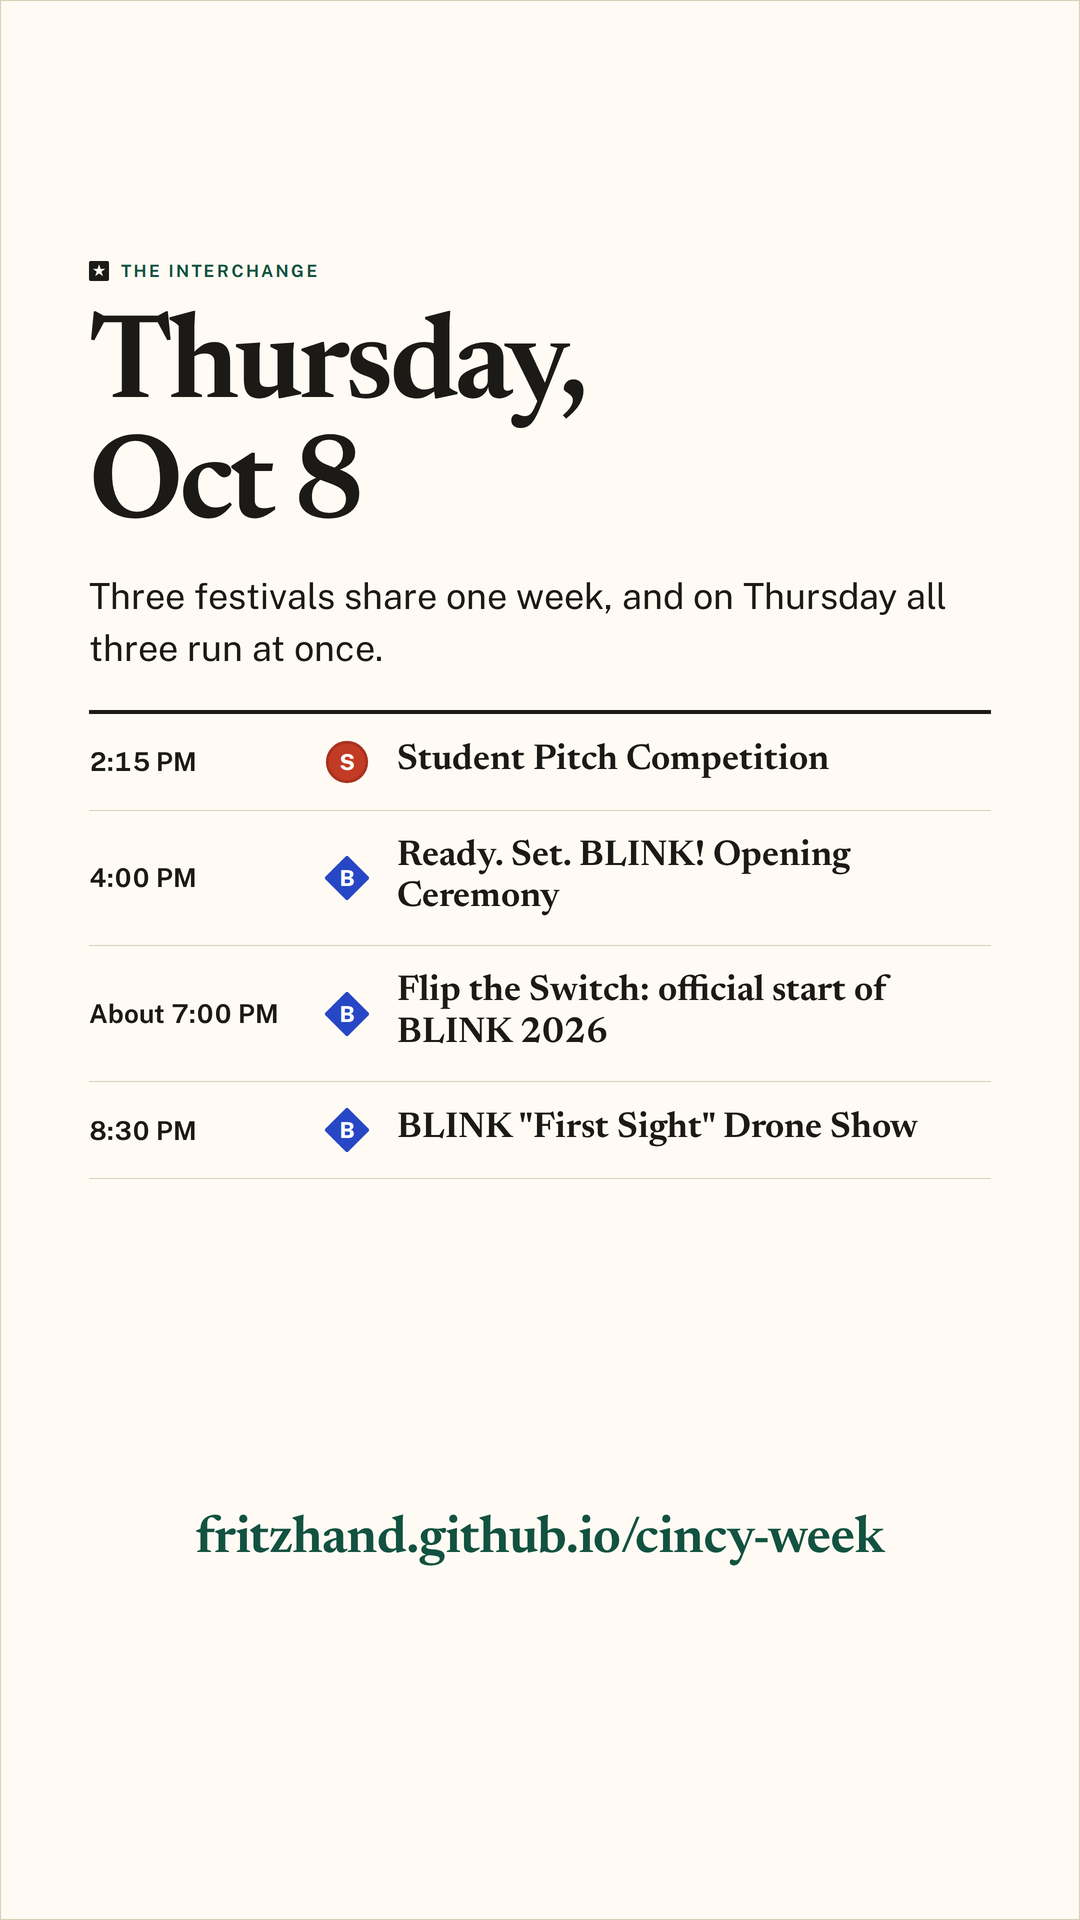
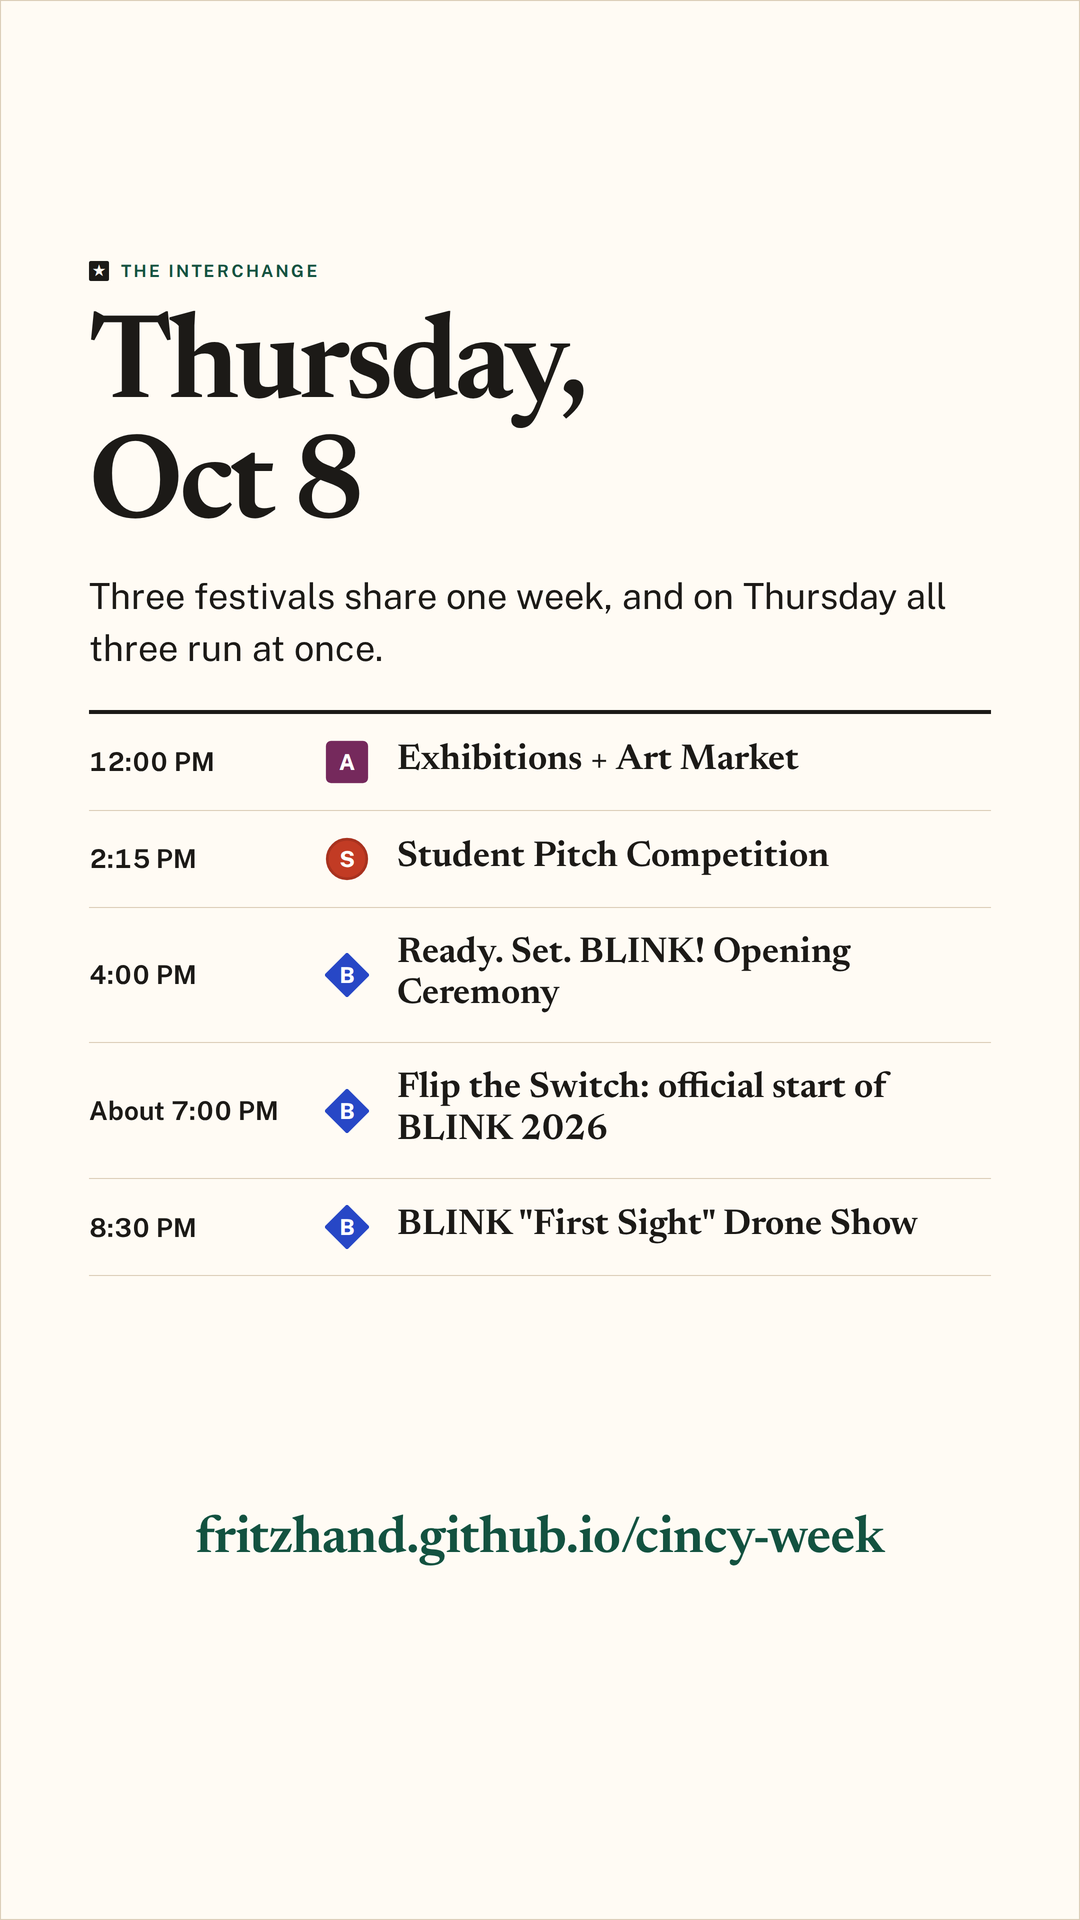
fix(collateral): the Thursday Story shows all three programs
Adds Art Week's Exhibitions + Art Market (12:00 PM) to story-02-thursday, so the
interchange slide shows Art Week, StartupCincy Week and BLINK. Its time comes from
the organizer's own schedule page (unlisted, draft-schedule), which the site
already shows with a draft label; the README says so. The build now fails if any
of the three programs is missing from that Story.

Claude-Session: https://claude.ai/code/session_01EECwuVdECvuQAqUDF2eHB6

diff --git a/collateral/README.md b/collateral/README.md
@@ -33,7 +33,8 @@ A card that fails any check is written as `<id>.failed.png` (gitignored) and the
   40 px top and bottom; on Stories, clear of the top 250 px and bottom 340 px.
 - A box that overflows or leaves the card, or two blocks that overlap.
 - A sentence it reads from the site that can't be found any more (the site changed).
-- A Thursday Story event that is missing, moved off Oct 8 or tagged `draft-schedule`.
+- A Thursday Story event that is missing or moved off Oct 8, a Story without all three programs, or a
+  `draft-schedule` item other than Art Week's *Exhibitions + Art Market*.
 
 ## Where the words come from
 
@@ -53,7 +54,7 @@ the built page it describes:
 | The OpenStreetMap credit | the site footer |
 | Program names, dates, day ranges | `data/programs.json` and the nav's program labels |
 | Counts (events, people, works, venues, sponsors, places to stay) | `data/*.json` record counts |
-| Thursday's timeline (Story 2) | four published events in `data/events.json`, by id |
+| Thursday's timeline (Story 2) | five events in `data/events.json`, by id. Art Week's *Exhibitions + Art Market* (12:00–7:00 PM) comes from the organizer's own schedule page, which is unlisted and says plans change; the site shows it with a draft label. The other four are published |
 | The address, the repo, the byline | `site.config.json` |
 
 Written by hand, and nothing else: the folio labels (*The week*, *The programs*, *How it is made*,

diff --git a/collateral/instagram-2026-09/alt-text.md b/collateral/instagram-2026-09/alt-text.md
@@ -32,7 +32,7 @@ Cincy Week, Oct 3–11, 2026. Art Week, StartupCincy Week and BLINK in one guide
 
 ## story-02-thursday.png
 
-Thursday, October 8. Three festivals share one week, and on Thursday all three run at once. That day: Student Pitch Competition, 2:15 PM; Ready. Set. BLINK! Opening Ceremony, 4:00 PM; Flip the Switch: official start of BLINK 2026, About 7:00 PM; BLINK "First Sight" Drone Show, 8:30 PM. fritzhand.github.io/cincy-week.
+Thursday, October 8. Three festivals share one week, and on Thursday all three run at once. That day: Exhibitions + Art Market, 12:00 PM; Student Pitch Competition, 2:15 PM; Ready. Set. BLINK! Opening Ceremony, 4:00 PM; Flip the Switch: official start of BLINK 2026, About 7:00 PM; BLINK "First Sight" Drone Show, 8:30 PM. fritzhand.github.io/cincy-week.
 
 ## story-03-link.png
 
